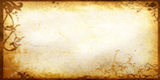
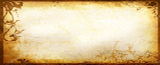
Tweaked HP modal text and sprite position. Modified HP modal image to fit contents better.

diff --git a/lib/game/main.js b/lib/game/main.js
@@ -964,22 +964,23 @@ ig.module(
             // Currently, we'll only focus on player modals.
             if(this.units[this.activeUnit].unitType === 'player' && this.battleState !== 'battle_start' && this.hoveredUnit !== null) {
                 // Draw small status screen modal
-                this.hpModal.draw(0, 400);
-                this.font16_black.draw('HP: ' + this.hoveredUnit.health + '/' + this.hoveredUnit.health_max, 70, 440);
+                this.hpModal.draw(10, 405);
+                this.font16_black.draw(this.hoveredUnit.name, 120, 418, ig.Font.ALIGN.CENTER);
+                this.font16_black.draw('HP: ' + this.hoveredUnit.health + '/' + this.hoveredUnit.health_max, 85, 435);
 
                 // Draw small character modal sprite
                 // Bypass drawing character modal sprite if one does not exist (usually for enemy units)
                 if(typeof this.hoveredUnit.modal !== 'undefined')
-                    this.hoveredUnit.modal.draw(5, 420);
+                    this.hoveredUnit.modal.draw(15, 408);
             }
 
             // Draw the terrain modal on cursor hover over in "free moving state".
             // Spawn this whenever a unit is not selected by the cursor entity.
             if(this.units[this.activeUnit].unitType === 'player' && this.battleState !== 'battle_start' && this.clickedUnit === null && this.hoveredTerrain !== null) {
-                this.terrainModal.draw(480, 400);
-                this.font16_black.draw(this.hoveredTerrain.type,  515, 426);
-                this.font12_black.draw(this.hoveredTerrain.def,   570, 447);
-                this.font12_black.draw(this.hoveredTerrain.avoid, 570, 459);
+                this.terrainModal.draw(470, 390);
+                this.font16_black.draw(this.hoveredTerrain.type,  505, 416);
+                this.font12_black.draw(this.hoveredTerrain.def,   560, 437);
+                this.font12_black.draw(this.hoveredTerrain.avoid, 560, 449);
             }
 
             // Draw battle summery modal on cursor hover while selecting an enemy to attack
